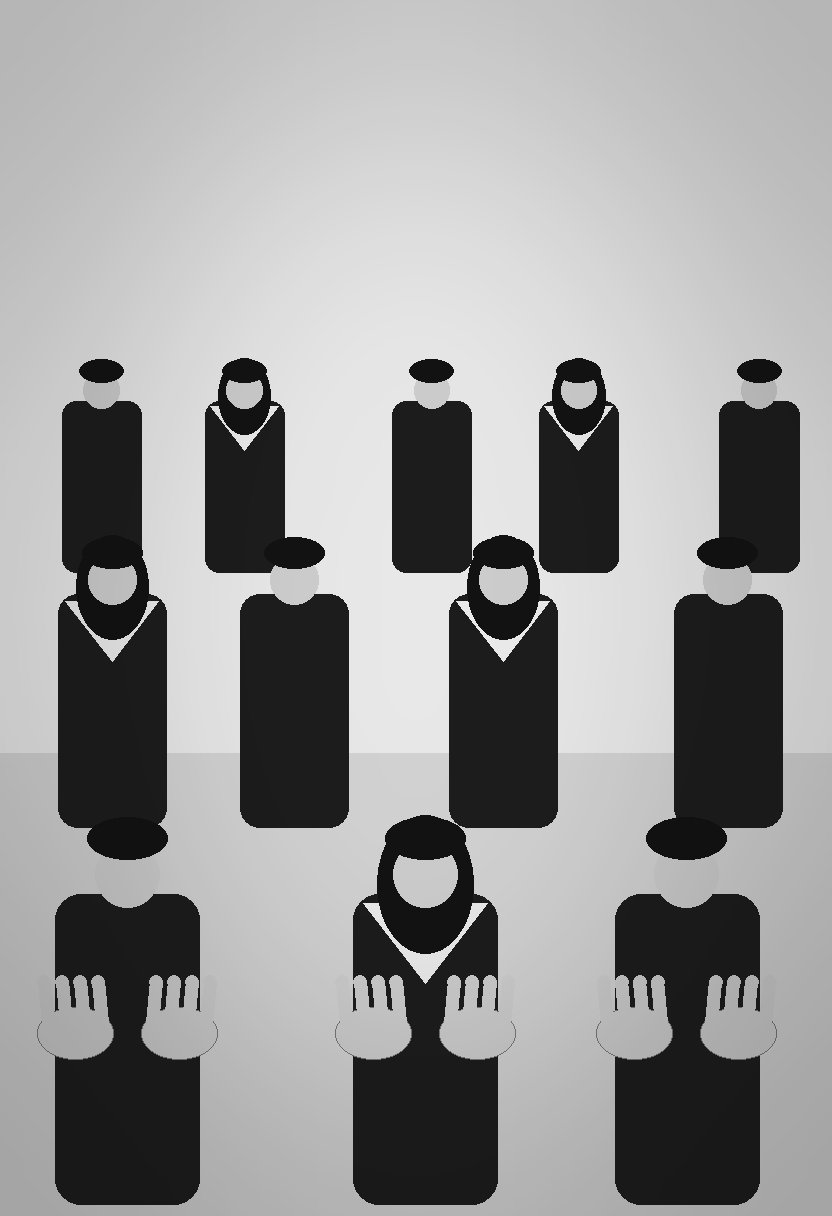
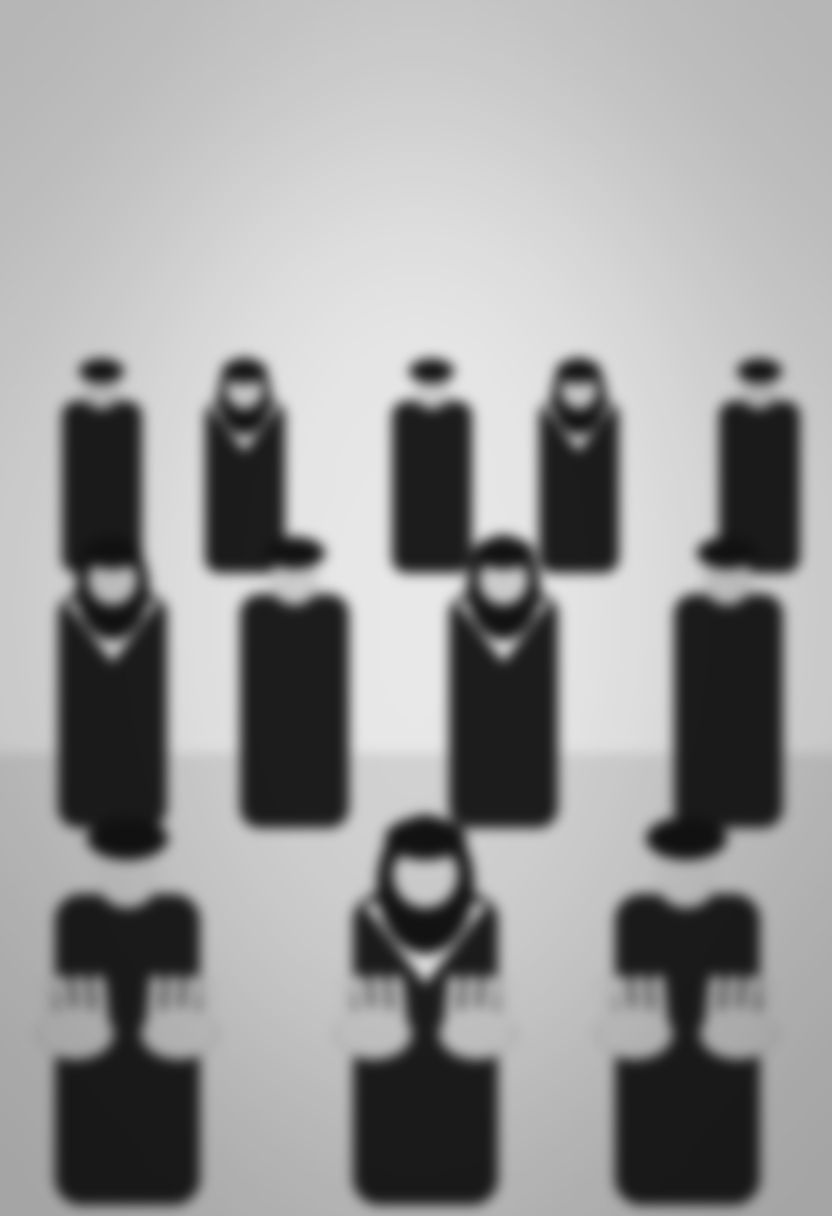
Soften Chapter 3's hand and class sketches and repaint at 0.85
At 0.68-0.72 the model kept the flat shapes as vector mannequins.

Claude-Session: https://claude.ai/code/session_01PF511aGmcMqQ6PCbPbr6tc

Changed region(s): [[0.2188, 0.2812, 0.75, 1.0], [0.7188, 0.2812, 0.9688, 1.0], [0.0312, 0.2812, 0.25, 1.0]]

diff --git a/tools/manga/sketches.py b/tools/manga/sketches.py
@@ -296,7 +296,7 @@ def coin_in_palm(w=832, h=1216, seed=3132):
     d.ellipse([w * 0.55, h * 0.3, w * 0.8, h * 0.47], fill=(196, 196, 196))  # his hand
     finger(d, w * 0.6, h * 0.42, cx + 30, cy - 70, 44, fill=(196, 196, 196))  # index finger to the coin
     finger(d, w * 0.66, h * 0.45, cx + 70, cy - 30, 44, fill=(196, 196, 196))  # thumb
-    return img.filter(ImageFilter.GaussianBlur(1))
+    return img.filter(ImageFilter.GaussianBlur(6))  # soft, or the model keeps the flat shapes
 
 
 def empty_hands(w=832, h=1216, seed=3142):
@@ -327,7 +327,7 @@ def empty_hands(w=832, h=1216, seed=3142):
                     for f in range(4):
                         fx = hx - 27 * s + f * 18 * s
                         finger(d, fx, hy - 10 * s, fx + side * 4 * s, hy - 52 * s, 13 * s)
-    return vignette(img, 60)
+    return vignette(img.filter(ImageFilter.GaussianBlur(6)), 60)  # soft, or the figures stay mannequins
 
 
 SKETCHES = {
